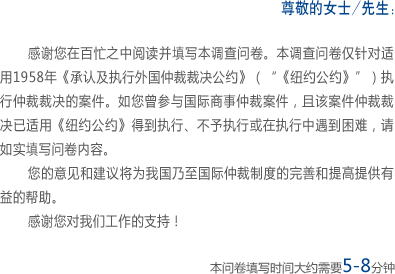
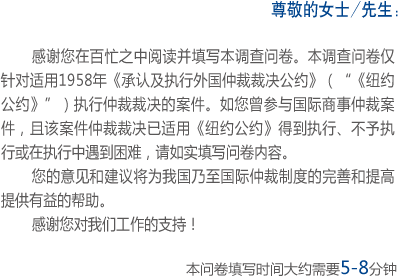
no message

Changed region(s): [[0.0, 0.146, 1.0, 0.8467], [0.4557, 0.9343, 1.0, 1.0], [0.6684, 0.0, 1.0, 0.0876]]

diff --git a/src/style.scss b/src/style.scss
@@ -401,7 +401,8 @@ img {
       display: flex;
       flex-direction: row;
       justify-content: center;
-      align-items: center;
+      align-items: stretch;
+      height: 276PX;
       .letter-chn{
         flex-grow: 1;
         width: auto;
@@ -654,18 +655,20 @@ img {
     }
     .letters{
       background-color: red;
-      overflow: hidden;
+      height: 276PX;
       .letter-chn{
         width: 50%;
         float: left;
         box-sizing: border-box;
         background-color: blue;
+        height: 100%;
       }
       .letter-en{
         background-color: green;
         width: 50%;
         float: right;
         box-sizing: border-box;
+        height: 100%;
       }
     }
   }
